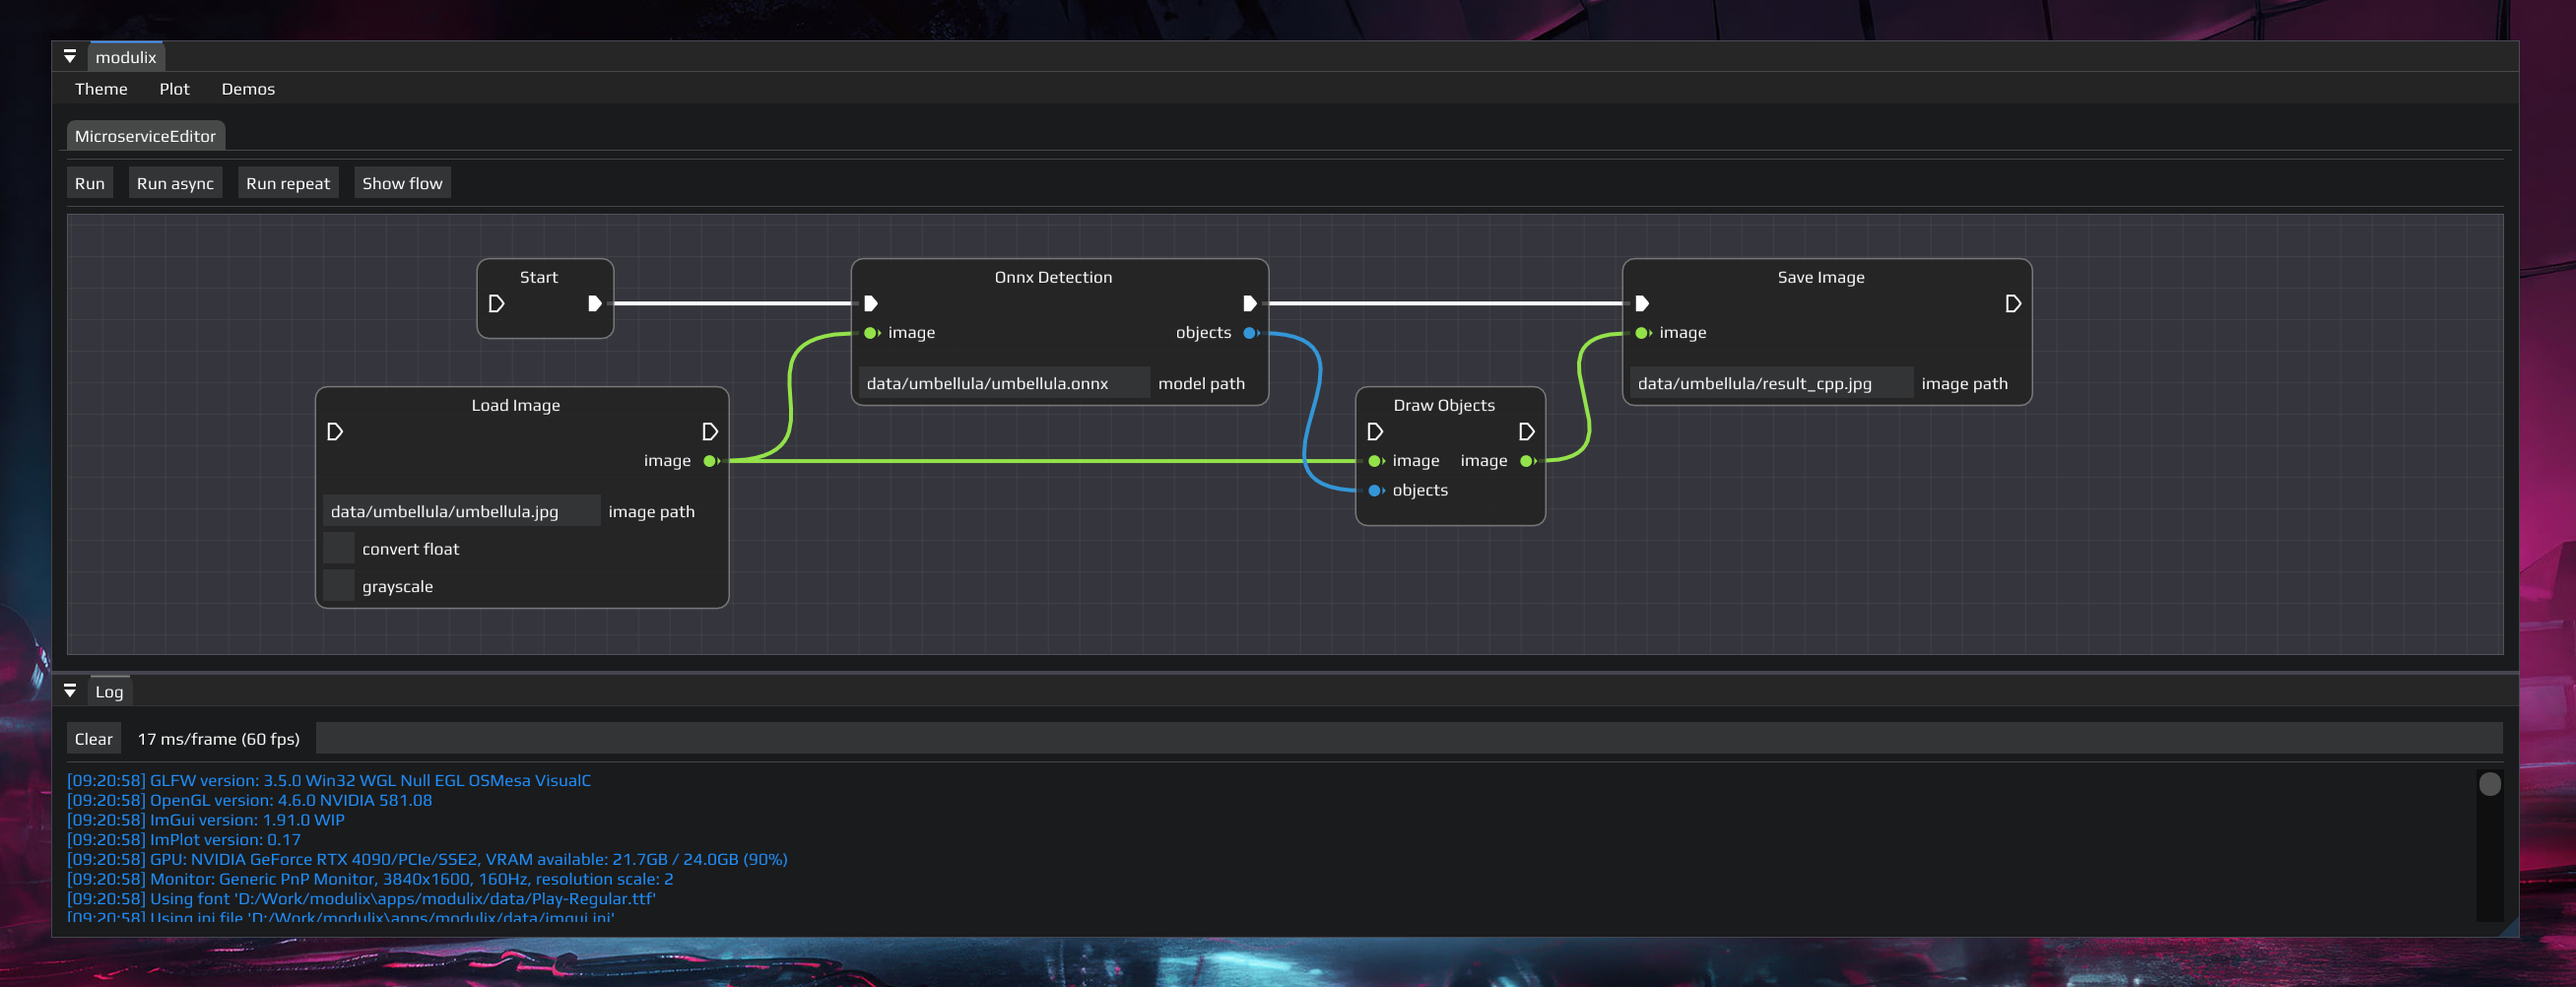
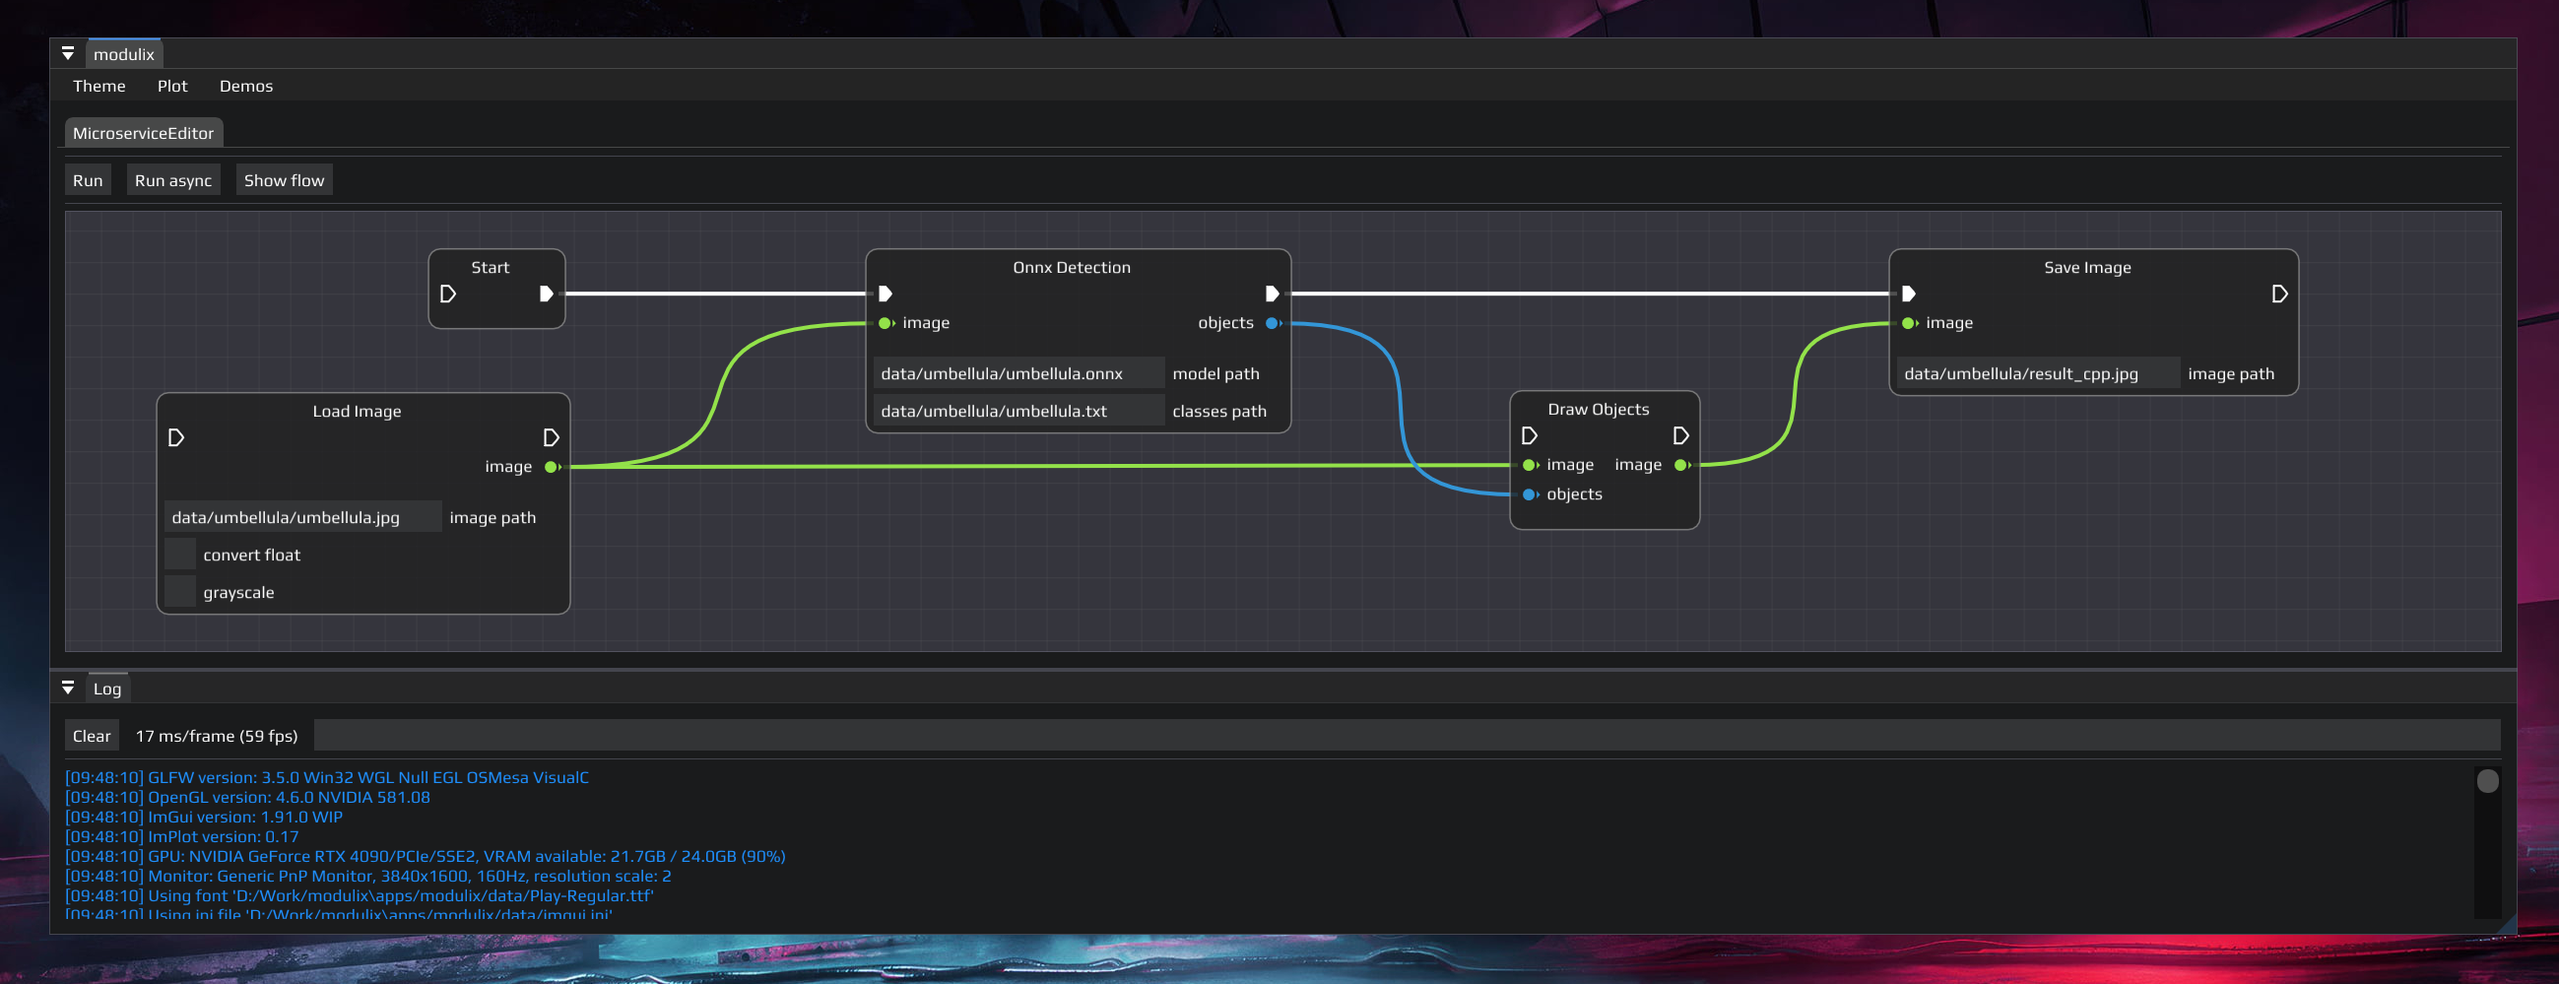
gui

diff --git a/apps/modulix/WorkflowEditorWindow.cpp b/apps/modulix/WorkflowEditorWindow.cpp
@@ -23,9 +23,6 @@ void WorkflowEditorWindow::Render()
     if (ImGui::Button("Run async"))
       LaunchAsync([&]() { Run(); });
     ImGui::SameLine();
-    if (ImGui::Button("Run repeat"))
-      LaunchAsync([&]() { RunRepeat(); });
-    ImGui::SameLine();
     if (ImGui::Button("Show flow"))
       editor.ShowFlow();
 
@@ -40,15 +37,6 @@ void WorkflowEditorWindow::Run()
   LOG_SCOPE("Workflow Load+Run");
   editor.workflow.Load();
   editor.workflow.Run();
-}
-
-void WorkflowEditorWindow::RunRepeat()
-{
-  for (int i = 0; i < 5; ++i)
-  {
-    Plot::Clear();
-    editor.workflow.Run();
-  }
 }
 
 void WorkflowEditorWindow::CreateWorkflow()

diff --git a/src/Modules/OnnxDetection.hpp b/src/Modules/OnnxDetection.hpp
@@ -17,7 +17,7 @@ class OnnxDetection : public Module
 
   void Load() override
   {
-    model = OnnxModel(GetProjectPath(GetParameter<std::string>("model path")), "onnx_detection_perf", {"input"}, {"boxes", "labels", "scores"});
+    model = OnnxModel(GetProjectPath(GetParameter<std::string>("model path")), "onnx_detection", {"input"}, {"boxes", "labels", "scores"});
     classNames = LoadClassNames(GetProjectPath(GetParameter<std::string>("classes path")));
     LOG_DEBUG("Classes: ['{}']", fmt::join(classNames, "', '"));
   }

diff --git a/apps/modulix/WorkflowEditorWindow.hpp b/apps/modulix/WorkflowEditorWindow.hpp
@@ -7,7 +7,6 @@ class WorkflowEditorWindow : public Window
   void CreateWorkflow();
   void ShowFlow();
   void Run();
-  void RunRepeat();
 
   WorkflowEditor editor;
 

diff --git a/docs/TODO.md b/docs/TODO.md
@@ -1,3 +1,6 @@
 # TODO
+
 - link strength adjustment
 - "compile" workflows
+- load workflow from file including nnode positions
+- save workflow to file including node positions
